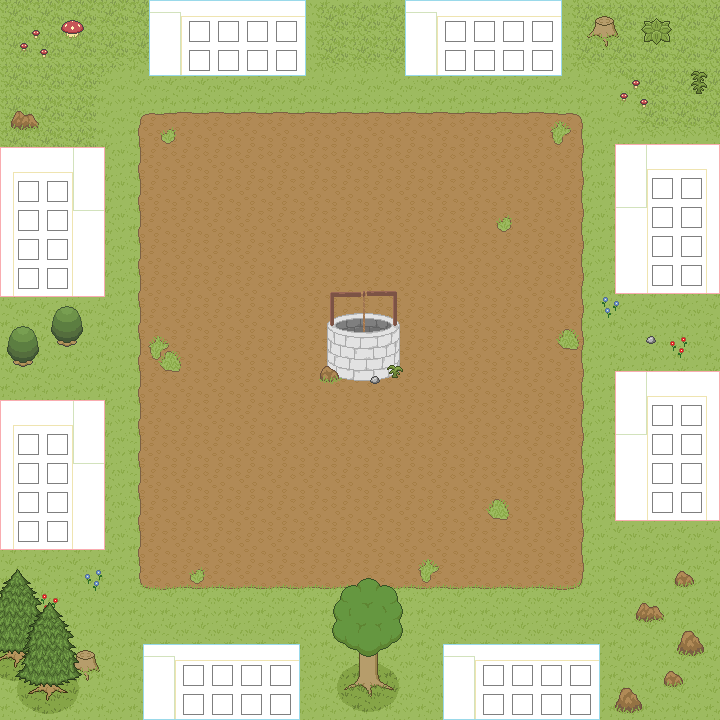
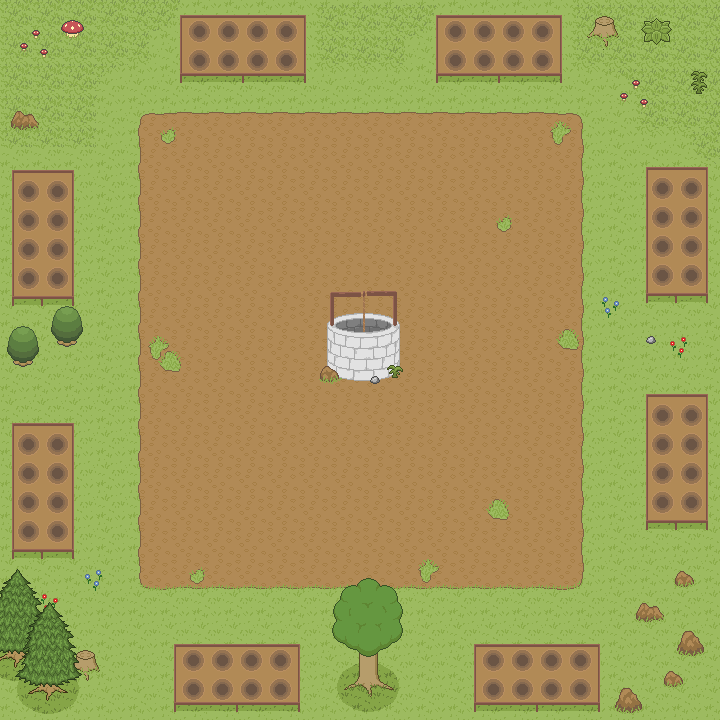
Adds transparency to the images

diff --git a/assets/styles/sidebar.css b/assets/styles/sidebar.css
@@ -7,7 +7,7 @@
 }
 
 .sidebar img {
-  opacity: .5;
+  /*opacity: .5;*/
 }
 
 .abs, .sidebar div {
@@ -17,9 +17,9 @@
 .sidebar .section {
   left: 0px;
   width: 240px;
-  border: thin solid blue;
+  /*border: thin solid blue;
   margin-top: -1px;
-  margin-left: -1px;
+  margin-left: -1px;*/
 }
 
 .sidebar .layout {

diff --git a/assets/styles/game.css b/assets/styles/game.css
@@ -10,9 +10,8 @@
 
 .trade-box {
   position: absolute;
-  background: white;
   z-index: 1;
-  opacity: .5;
+  /*opacity: .5;*/
 }
 
 .horizontal-box {
@@ -84,12 +83,12 @@
 
 .box-3 {
   left: 443px;
-  top: 644px;
+  top: 628px;
 }
 
 .box-7 {
   left: 143px;
-  top: 644px;
+  top: 628px;
 }
 
 .box-4 {
